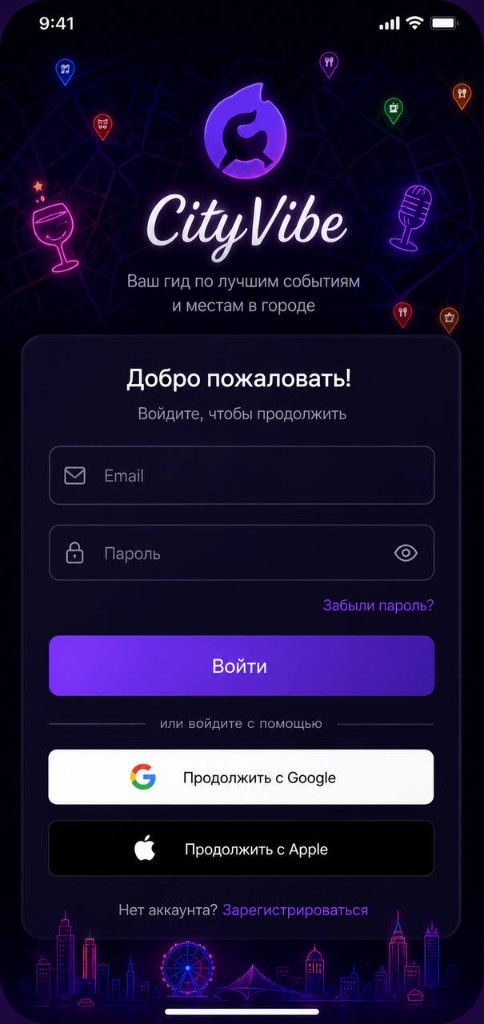
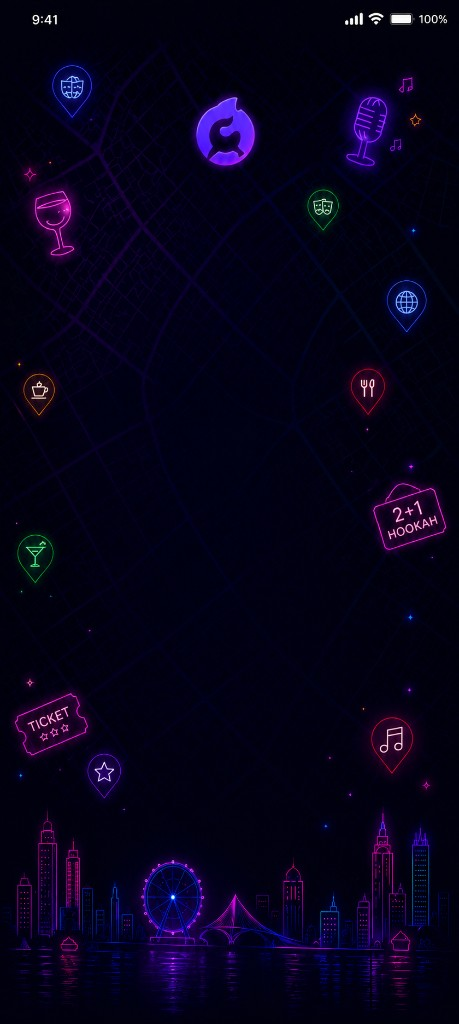
agp updated

diff --git a/dart/flutter/lib/features/auth/presentation/widgets/login_background.dart b/dart/flutter/lib/features/auth/presentation/widgets/login_background.dart
@@ -1,172 +1,19 @@
-import 'dart:math' as math;
-
-import 'package:city_vibe/theme/app_colors.dart';
 import 'package:flutter/material.dart';
 
-/// Декоративный фон экрана логина: ночная карта + неон-скайлайн.
-///
-/// Почему CustomPaint, а не картинка целиком?
-/// Макет — это уже готовый скрин с формой. Если положить его как Image,
-/// получится «двойной» UI (нарисованная форма + наша форма).
-/// Поэтому атмосферу рисуем сами, а форму собираем виджетами.
+/// Фон экрана логина — растровый макет из assets.
 class LoginBackground extends StatelessWidget {
   const LoginBackground({super.key});
 
+  static const assetPath = 'assets/images/login_bg.png';
+
   @override
   Widget build(BuildContext context) {
-    return const Stack(
-      fit: StackFit.expand,
-      children: [
-        // 1) Базовый градиент ночи.
-        DecoratedBox(
-          decoration: BoxDecoration(
-            gradient: LinearGradient(
-              begin: Alignment.topCenter,
-              end: Alignment.bottomCenter,
-              colors: [
-                Color(0xFF0B0714),
-                AppColors.background,
-                Color(0xFF1A0B2E),
-              ],
-            ),
-          ),
-        ),
-        // 2) «Карта» с пинами в верхней половине.
-        CustomPaint(painter: _MapPinsPainter()),
-        // 3) Неоновый силуэт города снизу.
-        Align(
-          alignment: Alignment.bottomCenter,
-          child: SizedBox(
-            height: 220,
-            width: double.infinity,
-            child: CustomPaint(painter: _NeonSkylinePainter()),
-          ),
-        ),
-        // 4) Затемнение по центру, чтобы карточка читалась.
-        DecoratedBox(
-          decoration: BoxDecoration(
-            gradient: LinearGradient(
-              begin: Alignment.topCenter,
-              end: Alignment.bottomCenter,
-              colors: [
-                Color(0x66000000),
-                Color(0x99000000),
-                Color(0xCC07060C),
-              ],
-            ),
-          ),
-        ),
-      ],
+    return Image.asset(
+      assetPath,
+      fit: BoxFit.cover,
+      width: double.infinity,
+      height: double.infinity,
+      alignment: Alignment.center,
     );
   }
-}
-
-/// Рисует сетку «улиц» и цветные точки-пины (еда, музыка…).
-class _MapPinsPainter extends CustomPainter {
-  const _MapPinsPainter();
-
-  @override
-  void paint(Canvas canvas, Size size) {
-    final grid = Paint()
-      ..color = const Color(0x22FFFFFF)
-      ..strokeWidth = 1;
-
-    // Редкая сетка — намёк на карту, не чертёж.
-    const step = 42.0;
-    for (double x = 0; x < size.width; x += step) {
-      canvas.drawLine(Offset(x, 0), Offset(x, size.height * 0.55), grid);
-    }
-    for (double y = 0; y < size.height * 0.55; y += step) {
-      canvas.drawLine(Offset(0, y), Offset(size.width, y), grid);
-    }
-
-    // Несколько «пинов» с разными цветами.
-    final pins = <(Offset, Color)>[
-      (Offset(size.width * 0.18, size.height * 0.12), const Color(0xFFFF4D6D)),
-      (Offset(size.width * 0.72, size.height * 0.10), const Color(0xFF4D9FFF)),
-      (Offset(size.width * 0.55, size.height * 0.22), const Color(0xFFB24BFF)),
-      (Offset(size.width * 0.30, size.height * 0.28), const Color(0xFFFFC14D)),
-      (Offset(size.width * 0.82, size.height * 0.30), const Color(0xFF4DFFB5)),
-      (Offset(size.width * 0.12, size.height * 0.38), const Color(0xFFFF6BCB)),
-    ];
-
-    for (final (pos, color) in pins) {
-      final glow = Paint()
-        ..color = color.withValues(alpha: 0.35)
-        ..maskFilter = const MaskFilter.blur(BlurStyle.normal, 10);
-      canvas.drawCircle(pos, 10, glow);
-      canvas.drawCircle(pos, 4.5, Paint()..color = color);
-    }
-  }
-
-  @override
-  bool shouldRepaint(covariant CustomPainter oldDelegate) => false;
-}
-
-/// Упрощённый неон-скайлайн (колесо обозрения + дома + мост).
-class _NeonSkylinePainter extends CustomPainter {
-  const _NeonSkylinePainter();
-
-  @override
-  void paint(Canvas canvas, Size size) {
-    final path = Path()..moveTo(0, size.height);
-
-    // Силуэт слева направо — ломаная «крыш».
-    final peaks = <Offset>[
-      Offset(0, size.height * 0.75),
-      Offset(size.width * 0.08, size.height * 0.55),
-      Offset(size.width * 0.14, size.height * 0.70),
-      Offset(size.width * 0.22, size.height * 0.40),
-      Offset(size.width * 0.28, size.height * 0.62),
-      Offset(size.width * 0.38, size.height * 0.35),
-      Offset(size.width * 0.46, size.height * 0.58),
-      Offset(size.width * 0.55, size.height * 0.28),
-      Offset(size.width * 0.62, size.height * 0.50),
-      Offset(size.width * 0.72, size.height * 0.32),
-      Offset(size.width * 0.80, size.height * 0.55),
-      Offset(size.width * 0.90, size.height * 0.38),
-      Offset(size.width, size.height * 0.60),
-    ];
-    for (final p in peaks) {
-      path.lineTo(p.dx, p.dy);
-    }
-    path
-      ..lineTo(size.width, size.height)
-      ..close();
-
-    final fill = Paint()
-      ..shader = const LinearGradient(
-        begin: Alignment.topCenter,
-        end: Alignment.bottomCenter,
-        colors: [Color(0xFF5B2BFF), Color(0xFF1A0B2E)],
-      ).createShader(Offset.zero & size);
-    canvas.drawPath(path, fill);
-
-    // Обводка неона по контуру.
-    final stroke = Paint()
-      ..style = PaintingStyle.stroke
-      ..strokeWidth = 2
-      ..color = const Color(0xAACF7BFF)
-      ..maskFilter = const MaskFilter.blur(BlurStyle.normal, 2);
-    canvas.drawPath(path, stroke);
-
-    // Колесо обозрения (намёк на макет).
-    final wheelCenter = Offset(size.width * 0.78, size.height * 0.42);
-    final wheelPaint = Paint()
-      ..style = PaintingStyle.stroke
-      ..strokeWidth = 2
-      ..color = const Color(0xFFB24BFF);
-    canvas.drawCircle(wheelCenter, 28, wheelPaint);
-    for (var i = 0; i < 8; i++) {
-      final a = (i / 8) * math.pi * 2;
-      canvas.drawLine(
-        wheelCenter,
-        wheelCenter + Offset(math.cos(a), math.sin(a)) * 28,
-        wheelPaint,
-      );
-    }
-  }
-
-  @override
-  bool shouldRepaint(covariant CustomPainter oldDelegate) => false;
 }

diff --git a/dart/flutter/lib/features/auth/presentation/login_screen.dart b/dart/flutter/lib/features/auth/presentation/login_screen.dart
@@ -3,6 +3,7 @@ import 'package:city_vibe/features/auth/presentation/widgets/gradient_button.dar
 import 'package:city_vibe/features/auth/presentation/widgets/login_background.dart';
 import 'package:city_vibe/features/auth/presentation/widgets/social_login_button.dart';
 import 'package:city_vibe/theme/app_colors.dart';
+import 'package:flutter/foundation.dart';
 import 'package:flutter/material.dart';
 
 /// Экран логина — вёрстка по макету + минимальная UI-логика.
@@ -79,7 +80,8 @@ class _LoginScreenState extends State<LoginScreen> {
           SafeArea(
             child: Center(
               child: SingleChildScrollView(
-                padding: const EdgeInsets.symmetric(horizontal: 20, vertical: 16),
+                padding:
+                    const EdgeInsets.symmetric(horizontal: 20, vertical: 16),
                 child: ConstrainedBox(
                   // На широких устройствах / web карточка не растягивается бесконечно.
                   constraints: const BoxConstraints(maxWidth: 420),
@@ -117,27 +119,10 @@ class _BrandHeader extends StatelessWidget {
 
   @override
   Widget build(BuildContext context) {
+    // Эмблема уже на login_bg.png — здесь только название и слоган.
     return Column(
       children: [
-        // Круглый логотип (пока геометрическая заглушка под макет).
-        Container(
-          width: 72,
-          height: 72,
-          decoration: BoxDecoration(
-            shape: BoxShape.circle,
-            gradient: const LinearGradient(
-              colors: [AppColors.gradientStart, AppColors.gradientEnd],
-            ),
-            boxShadow: [
-              BoxShadow(
-                color: AppColors.accent.withValues(alpha: 0.45),
-                blurRadius: 20,
-              ),
-            ],
-          ),
-          child: const Icon(Icons.nightlife, color: Colors.white, size: 34),
-        ),
-        const SizedBox(height: 12),
+        const SizedBox(height: 88),
         Text('CityVibe', style: textTheme.displayLarge),
         const SizedBox(height: 8),
         Text(
@@ -252,19 +237,22 @@ class _LoginCard extends StatelessWidget {
           const _OrDivider(),
           const SizedBox(height: 14),
 
-          const SocialLoginButton(
-            label: 'Продолжить с Google',
-            background: AppColors.googleButton,
-            foreground: Colors.black87,
-            leading: GoogleMark(),
-          ),
-          const SizedBox(height: 10),
-          const SocialLoginButton(
-            label: 'Продолжить с Apple',
-            background: AppColors.appleButton,
-            foreground: Colors.white,
-            leading: Icon(Icons.apple, color: Colors.white, size: 22),
-          ),
+          // На iOS/macOS — Apple, на Android и остальных — Google.
+          if (defaultTargetPlatform == TargetPlatform.iOS ||
+              defaultTargetPlatform == TargetPlatform.macOS)
+            const SocialLoginButton(
+              label: 'Продолжить с Apple',
+              background: AppColors.appleButton,
+              foreground: Colors.white,
+              leading: Icon(Icons.apple, color: Colors.white, size: 22),
+            )
+          else
+            const SocialLoginButton(
+              label: 'Продолжить с Google',
+              background: AppColors.googleButton,
+              foreground: Colors.black87,
+              leading: GoogleMark(),
+            ),
 
           const SizedBox(height: 18),
           // RichText / Text.rich — разные стили в одной строке.
@@ -306,7 +294,8 @@ class _OrDivider extends StatelessWidget {
           padding: const EdgeInsets.symmetric(horizontal: 10),
           child: Text(
             'или войдите с помощью',
-            style: Theme.of(context).textTheme.bodyMedium?.copyWith(fontSize: 12),
+            style:
+                Theme.of(context).textTheme.bodyMedium?.copyWith(fontSize: 12),
           ),
         ),
         line,
